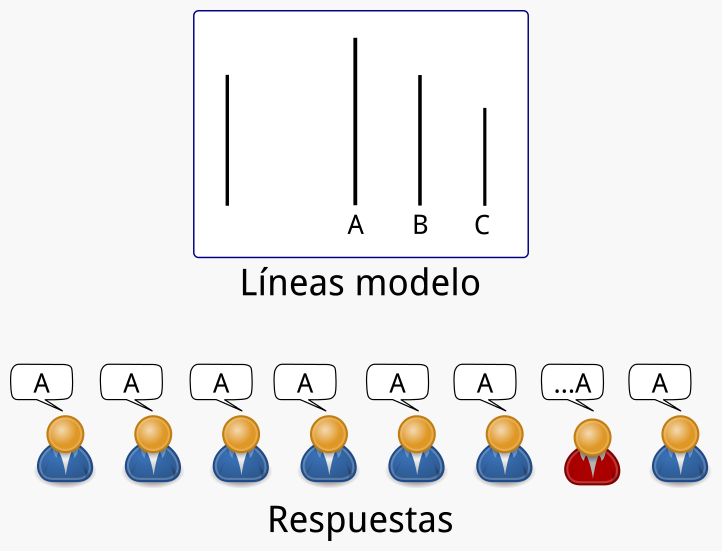
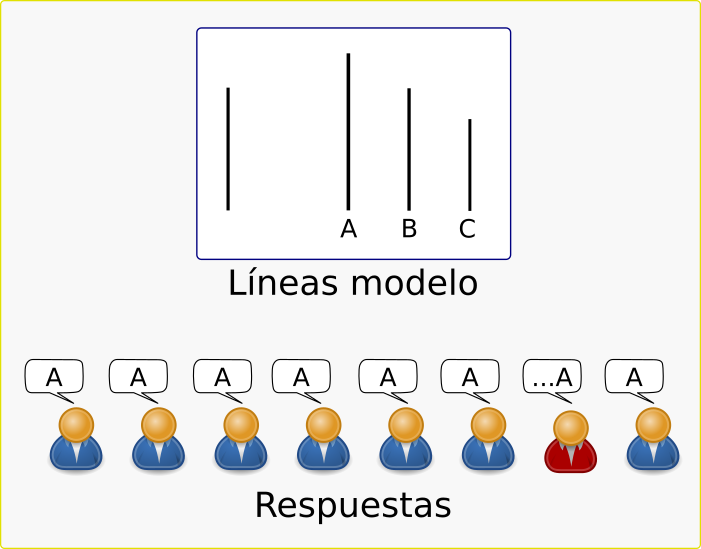
Conformismo 2018-2019, previo cambio estructura

Changed region(s): [[0.0, 0.0, 1.0, 1.0], [0.5692, 0.1239, 0.5991, 0.4335], [0.6591, 0.1858, 0.689, 0.4335]]

diff --git a/Conformismo.html b/Conformismo.html
@@ -192,32 +192,30 @@
 <h2>Sexo y edad</h2>
 <p><img data-src="imagenes-conformismo/Mori-Koyama.png" /><br />
 <span class="citation" data-cites="mori_boys_2014">Mori, Ito-Koyama, Arai, &amp; Hanayama (2014)</span></p>
-</section><section id="unanimidad" class="slide level2">
-<h2>Unanimidad</h2>
-<p><img data-src="imagenes-conformismo/BlackSheep.png" /></p>
-</section><section id="anonimato" class="slide level2">
-<h2>Anonimato</h2>
-<figure>
-<img data-src="imagenes-conformismo/Kota-Ezawa-handvote.jpg" alt="" /><figcaption>Kota-Ezawa</figcaption>
-</figure>
-<!--
-##Tamaño de la mayoría
-
-. . .
-
-![](imagenes-conformismo/Asch-EfectoMayoria.jpg)
-
-##Tamaño de la mayoría
+</section><section id="tamaño-de-la-mayoría" class="slide level2">
+<h2>Tamaño de la mayoría</h2>
+<p><img data-src="imagenes-conformismo/Ovejas-3.png" /> <!-- ![](imagenes-conformismo/Asch-EfectoMayoria.jpg) --></p>
+<!-- ## Tamaño de la mayoría
 
 <video width="420"  class="stretch" controls><source src="imagenes-conformismo/Stanley Milgram - Conformity and Independence.mp4"></video>
 
 ###### <https://www.youtube.com/watch?v=P0e6zG8IbE8>
 
-######@milgram_note_1969
--->
-<!--##Tamaño de la mayoría
-
-<object id="svg1"  data="imagenes-conformismo/TamañoMayoria.svg" type="image/svg+xml"></object> -->
+###### @milgram_note_1969 -->
+</section><section id="unanimidad" class="slide level2">
+<h2>Unanimidad</h2>
+<div id="column1" style="float:left; margin:0; width:50%;">
+<p><img data-src="imagenes-conformismo/Ovejas-1.png" /></p>
+</div>
+<div class="fragment">
+<div id="column1" style="float:left; margin:0; width:50%;">
+<p><img data-src="imagenes-conformismo/Ovejas-2.png" /></p>
+</div>
+</div>
+</section><section id="anonimato" class="slide level2">
+<h2>Anonimato</h2>
+<p><img data-src="imagenes-conformismo/Ovejas-4.png" /></p>
+<!-- ![Kota-Ezawa](imagenes-conformismo/Kota-Ezawa-handvote.jpg) -->
 <!--##Conformismo: Factores
 
 * Contexto histórico y cultural
